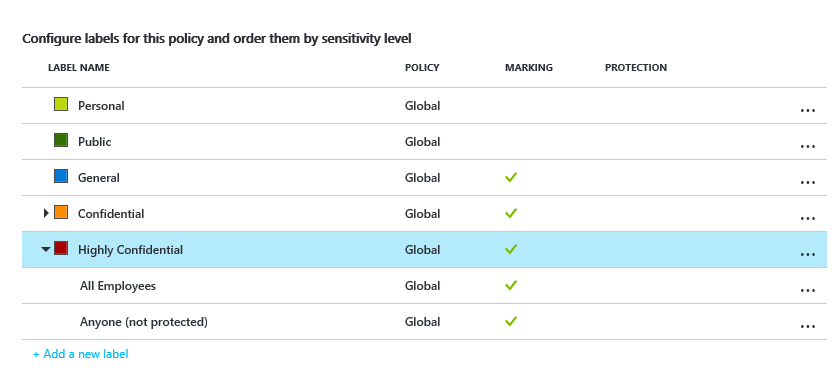
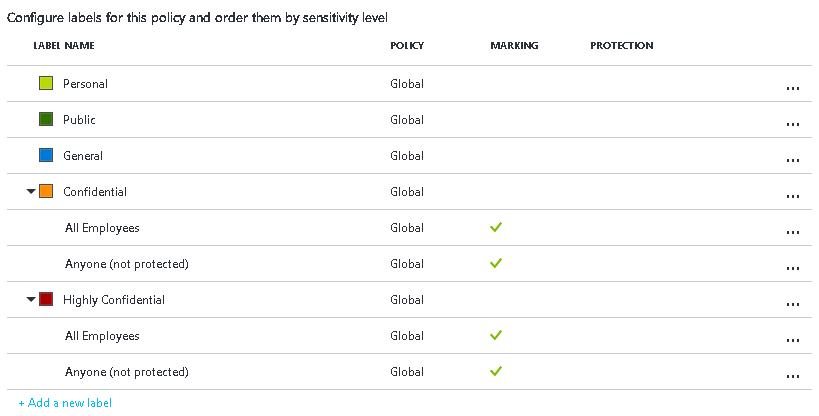
update text and pictures

diff --git a/Azure-RMSDocs/deploy-use/configure-policy-default.md b/Azure-RMSDocs/deploy-use/configure-policy-default.md
@@ -88,9 +88,9 @@ Note that descriptions in this policy refer to data that requires protection, an
 |-------------------------------|---------------------------|-----------------|
 |Personal|For personal use only. This data will not be monitored by the organization. Personal information must not include any business-related data.|**Enabled**: On <br /><br />**Color**: Light green<br /><br />**Visual markings**: Off <br /><br />**Conditions**: None<br /><br />**Protection**: None|
 |Public|This information is internal and can be used by everyone inside or outside the business.|**Enabled**: On <br /><br />**Color**: Green<br /><br />**Visual markings**: Off<br /><br />**Conditions**: None<br /><br />**Protection**: None|
-|Internal|This information includes a wide spectrum of internal business data that can be used by all employees and can be shared with authorized customers and business partners. Examples for internal information are company policies and most internal communications.|**Enabled**: On <br /><br />**Color**: Blue <br /><br />**Visual markings**: Footer (document and email): <br /><br />Sensitivity: General<br /><br />**Conditions**: None<br /><br />**Protection**: None|
-|Confidential|This data includes sensitive business information. Exposing this data to unauthorized users may cause damage to the organization. Examples for Confidential information are employee information, individual customer projects or contracts, and sales account data.|**Enabled**: On <br /><br />**Color**: Orange<br /><br />**Visual markings**: Footer (document and email):<br /><br />Sensitivity: Confidential<br /><br />**Conditions**: None<br /><br />**Protection**: None|
-|Secret|This data includes highly sensitive information for the business that must be protected. Exposing Secret data to unauthorized users may cause serious damage to the organization. Examples for Secret information are personal identification information, customer records, source code, and pre-announced financial reports.|**Enabled**: On <br /><br />**Color**: Red<br /><br />**Visual markings**: Footer (document and email):<br /><br />Sensitivity: Secret<br /><br />**Conditions**: None<br /><br />**Protection**: None|
+|Internal|This information includes a wide spectrum of internal business data that can be used by all employees and can be shared with authorized customers and business partners. Examples for internal information are company policies and most internal communications.|**Enabled**: On <br /><br />**Color**: Blue <br /><br />**Visual markings**: Footer (document and email): <br /><br />General<br /><br />**Conditions**: None<br /><br />**Protection**: None|
+|Confidential|This data includes sensitive business information. Exposing this data to unauthorized users may cause damage to the organization. Examples for Confidential information are employee information, individual customer projects or contracts, and sales account data.|**Enabled**: On <br /><br />**Color**: Orange<br /><br />**Visual markings**: Footer (document and email):<br /><br /> Confidential<br /><br />**Conditions**: None<br /><br />**Protection**: None|
+|Secret|This data includes highly sensitive information for the business that must be protected. Exposing Secret data to unauthorized users may cause serious damage to the organization. Examples for Secret information are personal identification information, customer records, source code, and pre-announced financial reports.|**Enabled**: On <br /><br />**Color**: Red<br /><br />**Visual markings**: Footer (document and email):<br /><br /> Secret<br /><br />**Conditions**: None<br /><br />**Protection**: None|
 
 
 ### Sub-labels
